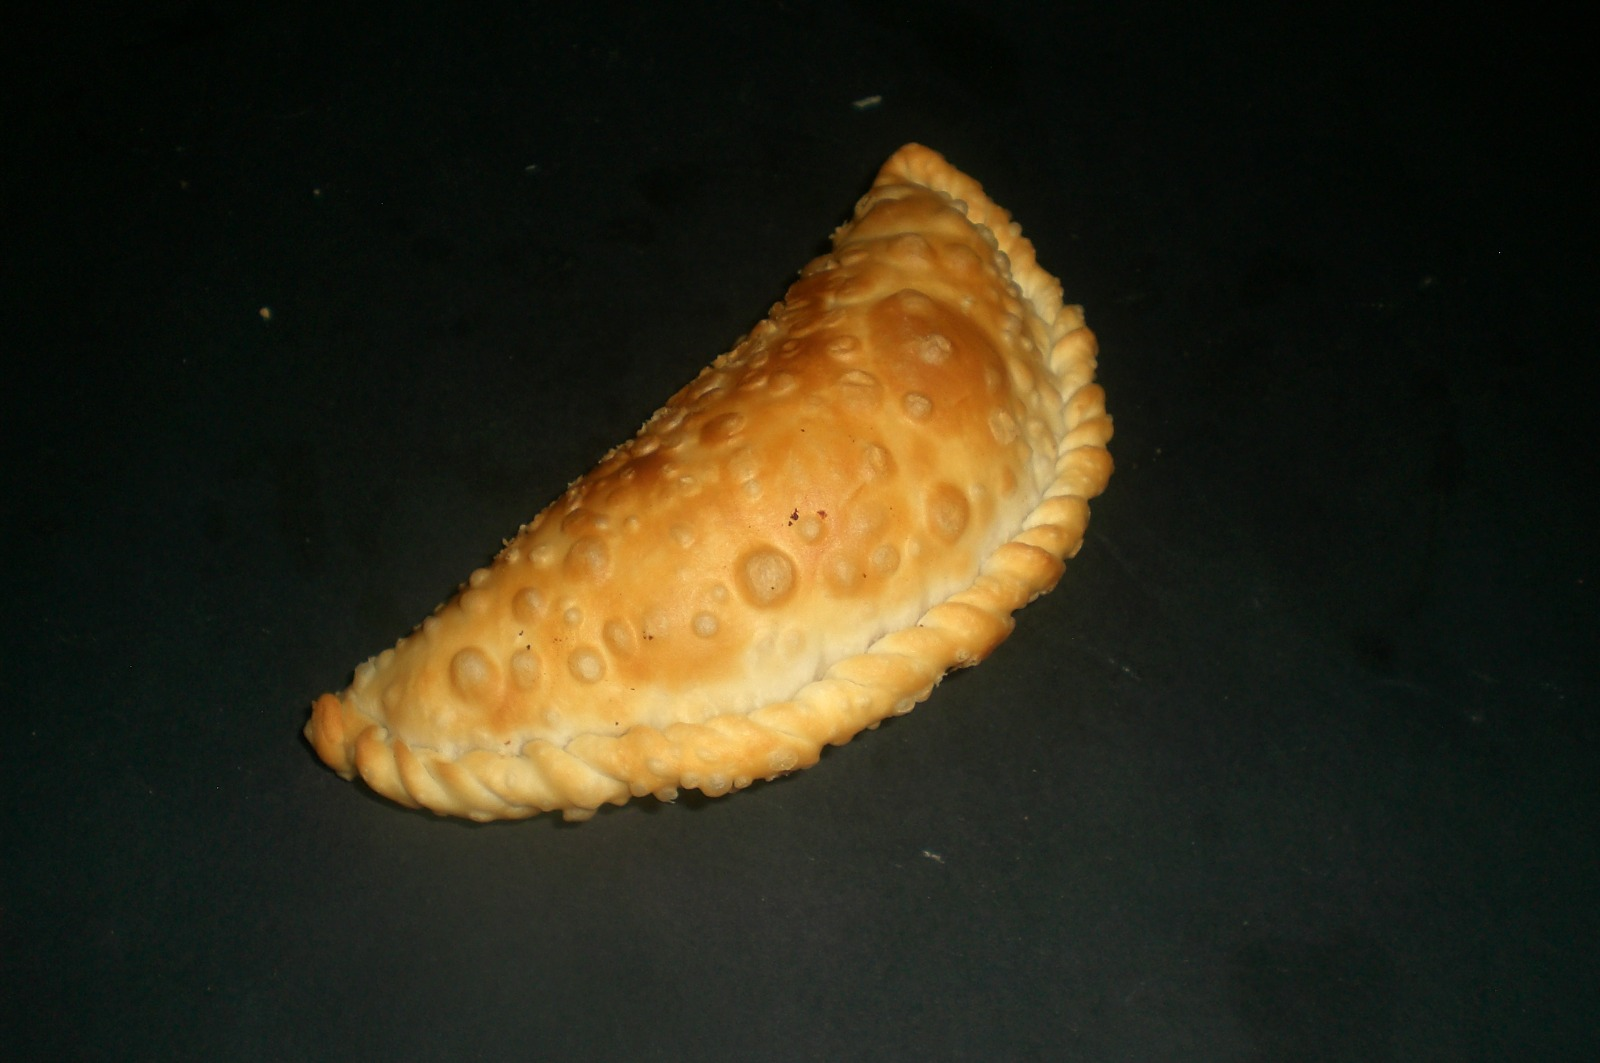
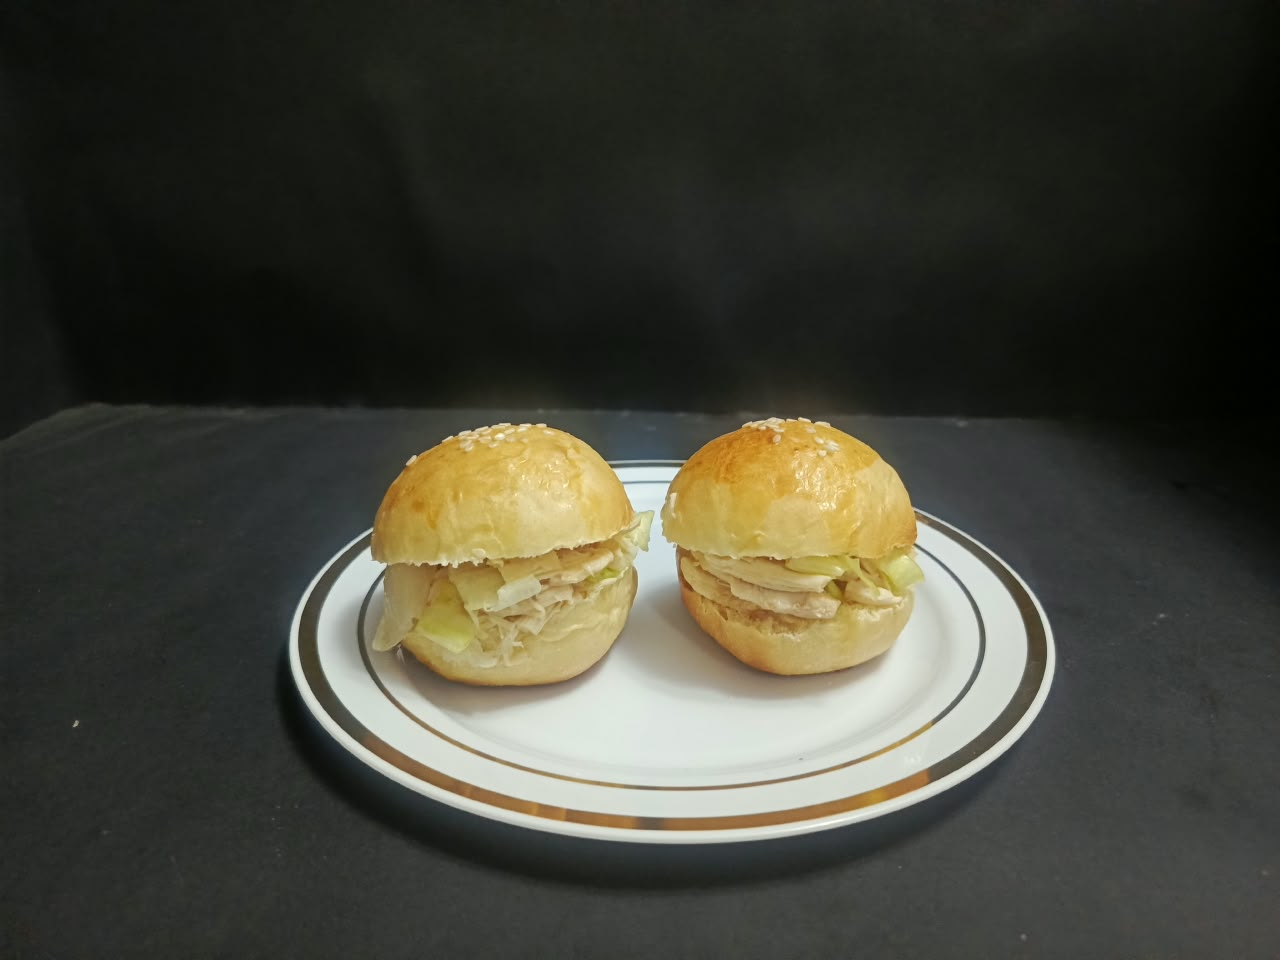
Add files via upload

diff --git a/index.html b/index.html
@@ -464,7 +464,7 @@
         <div class="photo fr"><span class="fn">19.png</span><img src="19.png" alt="Gelatina" loading="lazy" decoding="async" onerror="imgFallback(this)" onload="this.parentNode.classList.add('ok')"></div>
         <div class="inf">
           <h4 class="nm">Gelatina</h4>
-          <small class="note">120g sabor, 60g cremosa</small>
+          
           <ul class="pk c6"><li class="u"><s>Unitario</s><b>$0.75</b></li><li><s>6 un</s><b>$4.50</b></li><li><s>12 un</s><b>$8.50</b></li><li><s>24 un</s><b>$16.00</b></li><li><s>50 un</s><b>$32.00</b></li><li><s>100 un</s><b>$62.00</b></li></ul>
         </div>
       </article>
@@ -501,16 +501,16 @@
     <h2 class="hd">Porciones Dulces</h2>
     <div class="items">
       <article class="it">
-        <div class="photo fr"><span class="fn">22.png</span><img src="22.png" alt="Tiramisú 4*4" loading="lazy" decoding="async" onerror="imgFallback(this)" onload="this.parentNode.classList.add('ok')"></div>
+        <div class="photo fr"><span class="fn">22.png</span><img src="22.png" alt="Tiramisú " loading="lazy" decoding="async" onerror="imgFallback(this)" onload="this.parentNode.classList.add('ok')"></div>
         <div class="inf">
-          <h4 class="nm">Tiramisú 4*4</h4>
+          <h4 class="nm">Tiramisú </h4>
           <ul class="pk c6"><li class="u"><s>Unitario</s><b>$3.00</b></li><li><s>6 un</s><b>$18.00</b></li><li><s>12 un</s><b>$35.00</b></li><li><s>24 un</s><b>$70.00</b></li><li><s>50 un</s><b>$145.00</b></li><li><s>100 un</s><b>$280.00</b></li></ul>
         </div>
       </article>
       <article class="it">
-        <div class="photo fr"><span class="fn">23.png</span><img src="23.png" alt="Mousse de maracuyá 4*4" loading="lazy" decoding="async" onerror="imgFallback(this)" onload="this.parentNode.classList.add('ok')"></div>
+        <div class="photo fr"><span class="fn">23.png</span><img src="23.png" alt="Mousse de maracuyá " loading="lazy" decoding="async" onerror="imgFallback(this)" onload="this.parentNode.classList.add('ok')"></div>
         <div class="inf">
-          <h4 class="nm">Mousse de maracuyá 4*4</h4>
+          <h4 class="nm">Mousse de maracuyá </h4>
           <ul class="pk c6"><li class="u"><s>Unitario</s><b>$2.00</b></li><li><s>6 un</s><b>$12.00</b></li><li><s>12 un</s><b>$24.00</b></li><li><s>24 un</s><b>$47.00</b></li><li><s>50 un</s><b>$94.00</b></li><li><s>100 un</s><b>$185.00</b></li></ul>
         </div>
       </article>
